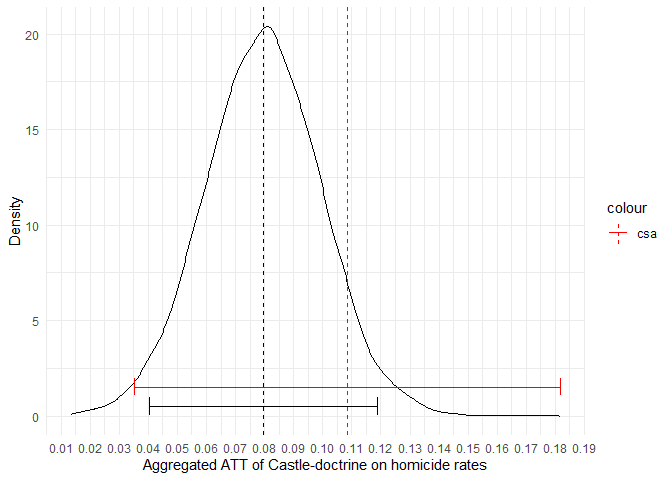
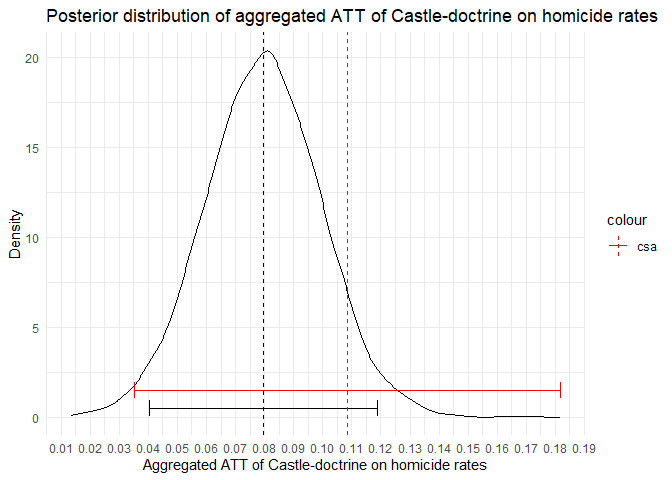
Added a title to the plot

diff --git a/staggered-DID-bayesian-aggregate-document.html b/staggered-DID-bayesian-aggregate-document.html
@@ -905,14 +905,14 @@ p &lt;- p+geom_vline(aes(xintercept=agg_effects$overall.att, color=&quot;csa&quo
 p &lt;- p+scale_x_continuous(breaks=seq(0,.2,.01))
 p &lt;- p+scale_color_manual(values=c(&quot;csa&quot;=&quot;red&quot;))
 p &lt;- p+theme_minimal()
-p &lt;- p+labs(x=&quot;Aggregated ATT of Castle-doctrine on homicide rates&quot;, y=&quot;Density&quot;)
+p &lt;- p+labs(x=&quot;Aggregated ATT of Castle-doctrine on homicide rates&quot;, y=&quot;Density&quot;, title=&quot;Posterior distribution of aggregated ATT of Castle-doctrine on homicide rates &quot;)
 
 
 
 #Empirical cummulative distribution function
 f &lt;- ecdf(post.samples$b_Intercept)</code></pre>
 <pre class="r"><code>p</code></pre>
[2 lines of base64/hex data omitted]
 <p>However, what if we had some kind of minimum effect of interest in
 mind, that we wanted to assess? For instance, what if we considered an
 increase in homicides of 5% a practically important effect size? Well,

diff --git a/staggered-DID-bayesian-aggregate-document.md b/staggered-DID-bayesian-aggregate-document.md
@@ -375,7 +375,7 @@ p <- p+geom_vline(aes(xintercept=agg_effects$overall.att, color="csa"), linetype
 p <- p+scale_x_continuous(breaks=seq(0,.2,.01))
 p <- p+scale_color_manual(values=c("csa"="red"))
 p <- p+theme_minimal()
-p <- p+labs(x="Aggregated ATT of Castle-doctrine on homicide rates", y="Density")
+p <- p+labs(x="Aggregated ATT of Castle-doctrine on homicide rates", y="Density", title="Posterior distribution of aggregated ATT of Castle-doctrine on homicide rates ")
 
 
 
@@ -388,12 +388,7 @@ f <- ecdf(post.samples$b_Intercept)
 p
 ```
 
-![]([plot](https://github.com/rasmusklokker/staggered-did-bayesian-aggregate/blob/master/staggered-DID-bayesian-aggregate-document_files/figure-html/posterior%20plot-1.png?)
-
-![screenshot](posterior plot-1.png)
-
-
-![image](https://github.com/rasmusklokker/staggered-did-bayesian-aggregate/assets/68444071/ea9de410-b477-42ac-91f5-15178a68448a)
+![](staggered-DID-bayesian-aggregate-document_files/figure-html/posterior plot-1.png)<!-- -->
 
 
 However, what if we had some kind of minimum effect of interest in mind, that we wanted to assess? For instance, what if we considered an increase in homicides of 5% a practically important effect size? Well, we can easily assess the probability of the ATT being 0.05 or higher, as well. In this case, the probability that the Castle-doctrine increased homicide rates of 5% or higher is 93%. What if we thought a 10% increase was the limit of practical importance? The probability that the policy resulted in an increase of homicide rates of 10%, or higher, is then 15%.
